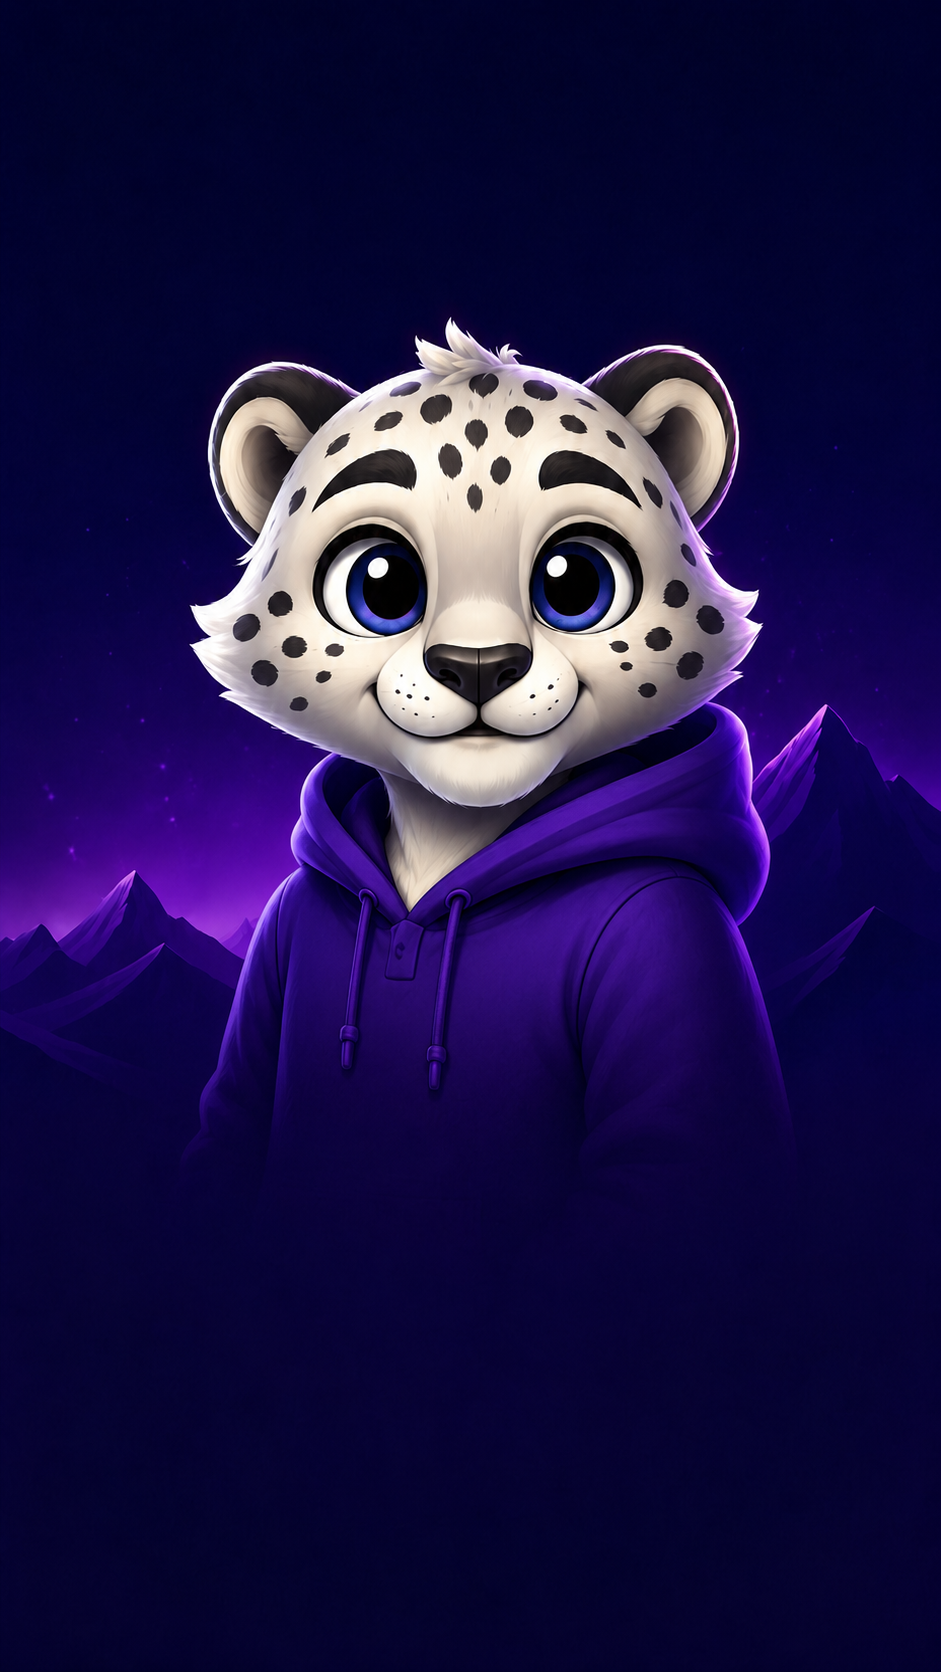
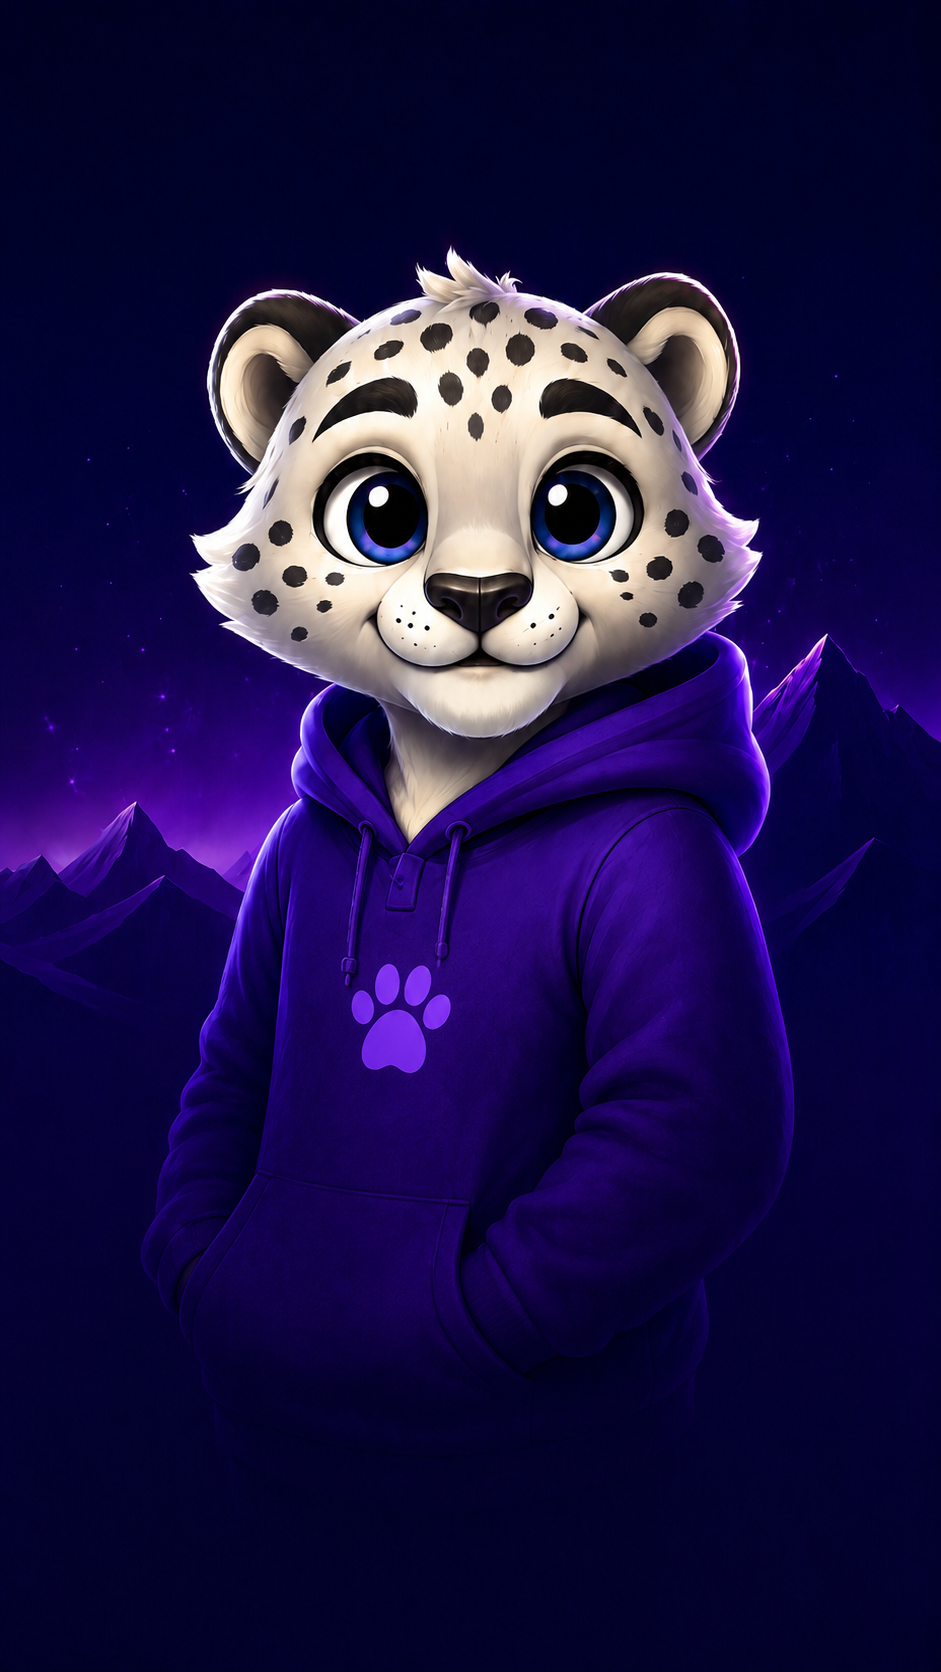
Brighten Splash scrim, swap "ОРТ" for "Qadam" + logo1 wordmark
Lightened the bottom-weighted gradient overlay (was fading to 96%
black by the bottom; now 70%, starts later at 65% down the screen)
so more of welcome.png's own brightness/detail shows through, closer
to the reference photo. Brand text changed from "ОРТ" to "Qadam",
with logo1.png (paw-print mark) placed to its left in a row.

Verified: npm run typecheck clean, expo start --web bundles clean
(1335 modules).

Changed region(s): [[0.0, 0.1555, 1.0, 0.8086], [0.5547, 0.8086, 0.6164, 0.8397], [0.7396, 0.7775, 0.7705, 0.8086]]

diff --git a/apps/mobile/src/screens/SplashScreen.tsx b/apps/mobile/src/screens/SplashScreen.tsx
@@ -7,6 +7,7 @@ import { colors } from '../theme/colors';
 import { spacing } from '../theme/spacing';
 
 const WELCOME = require('../../assets/welcome.png');
+const LOGO1 = require('../../assets/logo1.png');
 
 type Props = NativeStackScreenProps<RootStackParamList, 'Splash'>;
 
@@ -16,13 +17,16 @@ export function SplashScreen({ navigation }: Props) {
       <Image source={WELCOME} style={styles.background} resizeMode="cover" />
 
       <LinearGradient
-        colors={['transparent', 'rgba(10,8,24,0.55)', 'rgba(6,4,16,0.96)']}
-        locations={[0, 0.55, 1]}
+        colors={['transparent', 'rgba(10,8,24,0.2)', 'rgba(6,4,16,0.7)']}
+        locations={[0, 0.65, 1]}
         style={styles.scrim}
       />
 
       <View style={styles.content}>
-        <Text style={styles.brand}>ОРТ</Text>
+        <View style={styles.brandRow}>
+          <Image source={LOGO1} style={styles.brandLogo} resizeMode="contain" />
+          <Text style={styles.brand}>Qadam</Text>
+        </View>
 
         <Text style={styles.tagline}>Путь к высоким баллам начинается здесь!</Text>
 
@@ -62,13 +66,23 @@ const styles = StyleSheet.create({
     paddingHorizontal: spacing.xl,
     paddingBottom: spacing.xl + 24,
   },
+  brandRow: {
+    flexDirection: 'row',
+    alignItems: 'center',
+    justifyContent: 'center',
+    gap: 10,
+    marginBottom: 10,
+  },
+  brandLogo: {
+    width: 40,
+    height: 40,
+  },
   brand: {
     color: colors.text,
     fontSize: 40,
     fontWeight: '800',
     letterSpacing: 1,
     textAlign: 'center',
-    marginBottom: 10,
     textShadowColor: colors.purpleGlow,
     textShadowOffset: { width: 0, height: 0 },
     textShadowRadius: 18,
